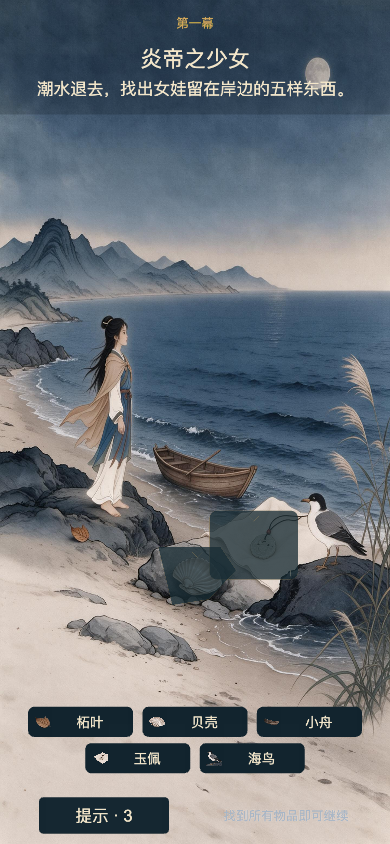
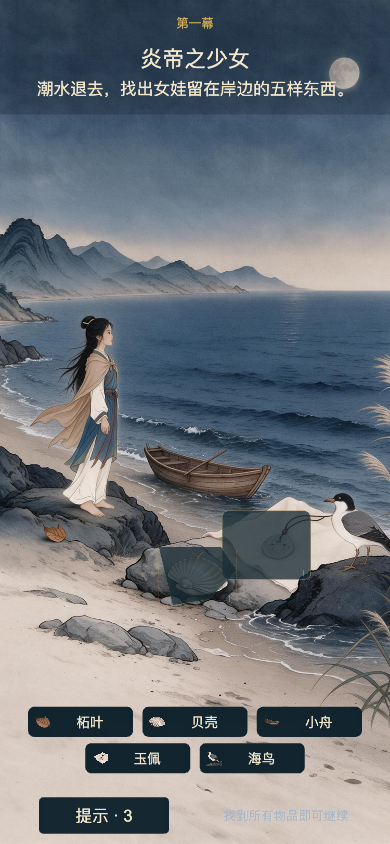
Fix chapter art aspect ratio with cover scaling

diff --git a/wechat-minigame/assets/scripts/SpikeController.ts b/wechat-minigame/assets/scripts/SpikeController.ts
@@ -208,6 +208,13 @@ export class SpikeController extends Component {
     });
   }
 
+  private artDisplaySize(frame: SpriteFrame, width: number, height: number): { width: number; height: number } {
+    const imageWidth = frame.originalSize?.width || frame.rect?.width || width;
+    const imageHeight = frame.originalSize?.height || frame.rect?.height || height;
+    const scale = Math.max(width / imageWidth, height / imageHeight);
+    return { width: imageWidth * scale, height: imageHeight * scale };
+  }
+
   private artName(actIndex: number, mode: string): string {
     if (actIndex === 0) return mode === 'puzzle' ? 'act1-puzzle' : 'act1-story';
     return actIndex === 1 ? 'act2' : 'act3';
@@ -391,11 +398,12 @@ export class SpikeController extends Component {
     const h = view.getVisibleSize().height;
     const frame = this.artFrames.get(this.artName(actIndex, mode));
     if (frame) {
-      const n = this.uiNode('SceneArt', w, h);
+      const shown = this.artDisplaySize(frame, w, h);
+      const n = this.uiNode('SceneArt', shown.width, shown.height);
       const sp = n.addComponent(Sprite);
       sp.spriteFrame = frame;
       sp.sizeMode = Sprite.SizeMode.CUSTOM;
-      n.getComponent(UITransform)!.setContentSize(w, h);
+      n.getComponent(UITransform)!.setContentSize(shown.width, shown.height);
       if (mode === 'story') {
         this.artShade(-h / 2 + h * 0.22, h * 0.44, 190);
       } else if (mode === 'title' || mode === 'blank') {
@@ -619,9 +627,11 @@ export class SpikeController extends Component {
     this.hintText = this.label('', 0, this.bottomY(300), 26, GOLD, 690);
 
     const artMode = this.artFrames.size > 0;
+    const puzzleFrame = this.artFrames.get(this.artName(actIndex, 'puzzle'));
+    const display = puzzleFrame ? this.artDisplaySize(puzzleFrame, view.getVisibleSize().width, h) : null;
     for (const target of act.puzzle.targets) {
-      const px = artMode ? -375 + target.x * 750 : -330 + target.x * 660;
-      const py = artMode ? -h / 2 + target.y * h : areaBottom + target.y * (areaTop - areaBottom);
+      const px = artMode && display ? (target.x - 0.5) * display.width : -330 + target.x * 660;
+      const py = artMode && display ? (target.y - 0.5) * display.height : areaBottom + target.y * (areaTop - areaBottom);
       const hitSize = artMode ? (['head', 'beak', 'stone'].includes(target.id) ? 86 : 112) : 130;
       const n = this.uiNode(`target-${target.id}`, hitSize, hitSize);
       n.setPosition(px, py);
@@ -636,8 +646,8 @@ export class SpikeController extends Component {
     }
 
     for (const cover of act.puzzle.covers || []) {
-      const px = artMode ? -375 + cover.x * 750 : -330 + cover.x * 660;
-      const py = artMode ? -h / 2 + cover.y * h : areaBottom + cover.y * (areaTop - areaBottom);
+      const px = artMode && display ? (cover.x - 0.5) * display.width : -330 + cover.x * 660;
+      const py = artMode && display ? (cover.y - 0.5) * display.height : areaBottom + cover.y * (areaTop - areaBottom);
       const n = this.uiNode(`cover-${cover.id}`, cover.w, cover.h);
       n.setPosition(px, py);
       const g = n.addComponent(Graphics);

diff --git a/docs/wechat-cocos-spike.md b/docs/wechat-cocos-spike.md
@@ -244,6 +244,22 @@ Why the patch is needed:
 
 After a WeChat DevTools "编译", you do **not** need to run it again. It is only for a new Cocos build.
 
+### Aspect handling
+
+The chapter art is 9:16 (1440×2560), but WeChat phones render at a taller visible design size (for example 750×1666). Forcing the sprite to 750×1666 stretched the figures vertically.
+
+The background now uses **aspect-fill / cover**:
+
+```text
+scale = max(screenWidth / imageWidth, screenHeight / imageHeight)
+displayWidth = imageWidth * scale
+displayHeight = imageHeight * scale
+```
+
+The sprite is slightly wider than the screen and is clipped at the two sides; the image is never stretched. Puzzle hit zones use the same displayed width/height, so target positions stay aligned.
+
+Trade-off: on tall phones a little of the left/right edge is cropped. If that becomes a problem, switch `artDisplaySize` to `min(...)` (contain/letterbox) and add a background color or title bar above/below the art.
+
 ## Current machine status
 
 Installed and verified:
